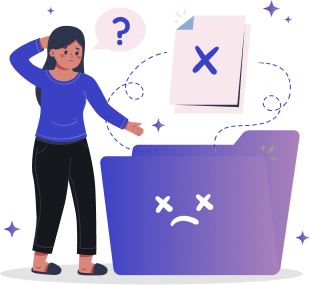
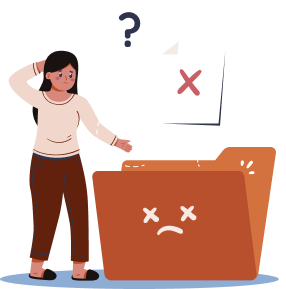
- Change some colors in app.

diff --git a/lib/features/filter/presentation/widgets/products_screen/products_screen_product_item.dart b/lib/features/filter/presentation/widgets/products_screen/products_screen_product_item.dart
@@ -36,7 +36,6 @@ class ProductsScreenProductItem extends ConsumerWidget {
       }
     });
     return GestureDetector(
-      onLongPress: onLongPress,
       onTap: () =>
           context.push(AppRoutes.productDetailsScreen, extra: item.name),
       child: ClipRRect(
@@ -111,23 +110,44 @@ class ProductsScreenProductItem extends ConsumerWidget {
                 ),
                 child: Column(
                   crossAxisAlignment: CrossAxisAlignment.start,
+                  mainAxisAlignment: MainAxisAlignment.spaceBetween,
                   spacing: 10,
                   children: [
-                    Text(
-                      item.title ?? 'iphone'.tr(),
-                      maxLines: 3,
-                      overflow: TextOverflow.ellipsis,
-                      style: AppTextStyle.rubikSemiBold16.copyWith(
-                        color: AppColors.textDart,
-                      ),
+                    Row(
+                      mainAxisAlignment: MainAxisAlignment.spaceBetween,
+                      children: [
+                        Expanded(
+                          child: Text(
+                            item.title ?? 'iphone'.tr(),
+                            // 'gggggggggggggggggggggggggggggggggggggggggggg',
+                            maxLines: 2,
+                            overflow: TextOverflow.ellipsis,
+                            style: AppTextStyle.rubikSemiBold16.copyWith(
+                              color: AppColors.textDart,
+                            ),
+                          ),
+                        ),
+                        if (onLongPress != null)
+                          GestureDetector(
+                            onTap: onLongPress,
+                            child: Icon(
+                              Icons.more_vert,
+                              color: AppColors.grayHint,
+                              size: 25,
+                            ),
+                          ),
+                      ],
                     ),
                     Text(
                       item.condition ?? 'new'.tr(),
+                      // 'gggggggggggggggggggggggggggggggggggggggggggg',
+                      maxLines: 1,
+
                       style: AppTextStyle.rubikRegular12.copyWith(
                         color: AppColors.grayHint,
                       ),
                     ),
-                    Spacer(),
+                    // Spacer(),
                     Text(
                       '${item.price ?? 44} ${item.currency ?? 'QAR'.tr()}',
                       style: AppTextStyle.rubikMedium14.copyWith(

diff --git a/lib/features/addProduct/presentation/widgets/first_step/step_category_view.dart b/lib/features/addProduct/presentation/widgets/first_step/step_category_view.dart
@@ -168,7 +168,7 @@ class _CategorySection extends StatelessWidget {
     return Column(
       crossAxisAlignment: CrossAxisAlignment.start,
       children: [
-        Divider(height: 1, color: AppColors.grayBorder),
+        Divider(height: 1, color: AppColors.lightGray),
 
         10.verticalSpace,
 
@@ -178,7 +178,7 @@ class _CategorySection extends StatelessWidget {
             Container(
               padding: const EdgeInsets.all(8),
               decoration: BoxDecoration(
-                color: AppColors.primaryOpacity,
+                color: AppColors.secondPrimary,
                 borderRadius: BorderRadius.circular(25),
               ),
               child: CachedNetworkImage(

diff --git a/lib/features/filter/presentation/screens/search_sub_categories_screen.dart b/lib/features/filter/presentation/screens/search_sub_categories_screen.dart
@@ -30,8 +30,8 @@ class _SearchSubCategoriesScreenContent extends StatelessWidget {
         Divider(height: 24, color: AppColors.dividerColor),
         if (subCategoryModel.mainAttributes?.isNotEmpty ?? false)
           SubCategoriesSection(subCategoryModel),
-        if (subCategoryModel.mainAttributes?.isNotEmpty ?? false)
-          Divider(height: 24, color: AppColors.dividerColor),
+        // if (subCategoryModel.mainAttributes?.isNotEmpty ?? false)
+        // Divider(height: 24, color: AppColors.dividerColor),
         // SearchSubCategoriesCompaniesSection(),
       ],
     );

diff --git a/lib/features/filter/presentation/widgets/searc_sub_categories_screen/sub_category_item.dart b/lib/features/filter/presentation/widgets/searc_sub_categories_screen/sub_category_item.dart
@@ -39,9 +39,9 @@ class SubCategoryItem extends ConsumerWidget {
       child: Container(
         // width: 104,
         // height: 40,
-        width: width / 4.5,
+        width: width / 4,
         // height: width / 3.5,
-        height: width / 4.5,
+        height: width / 4,
         padding: EdgeInsets.all(4),
         alignment: Alignment.center,
         decoration: BoxDecoration(

diff --git a/lib/features/home/presentation/widgets/home_screen/home_screen_sub_category_item.dart b/lib/features/home/presentation/widgets/home_screen/home_screen_sub_category_item.dart
@@ -26,9 +26,9 @@ class HomeScreenSubCategoryItem extends ConsumerWidget {
         );
       },
       child: Container(
-        width: width / 4.5,
+        width: width / 4,
         // height: width / 3.5,
-        height: width / 4.5,
+        height: width / 4,
         decoration: BoxDecoration(
           color: AppColors.white,
           borderRadius: BorderRadius.circular(20),

diff --git a/lib/features/filter/presentation/widgets/products_screen/products_screen_products_grid.dart b/lib/features/filter/presentation/widgets/products_screen/products_screen_products_grid.dart
@@ -46,7 +46,7 @@ Widget buildPostsGrid(
         crossAxisCount: 2,
         crossAxisSpacing: 16,
         mainAxisSpacing: 16,
-        childAspectRatio: 0.45,
+        childAspectRatio: 0.53,
       ),
       itemBuilder: (context, index) =>
           ProductsScreenProductItem(item: posts[index]),

diff --git a/lib/features/home/presentation/widgets/home_screen/home_screen_category_title.dart b/lib/features/home/presentation/widgets/home_screen/home_screen_category_title.dart
@@ -26,7 +26,7 @@ class HomeScreenCategoryTitle extends StatelessWidget {
           padding: EdgeInsets.all(5),
           decoration: BoxDecoration(
             shape: BoxShape.circle,
-            color: AppColors.lightRedBackground,
+            color: AppColors.secondPrimary,
           ),
           child: CachedNetworkImage(
             imageUrl: ServicesUrls.imageUrl + icon,

diff --git a/lib/features/profile/presentation/screens/profile_screen.dart b/lib/features/profile/presentation/screens/profile_screen.dart
@@ -96,7 +96,7 @@ class ProfileScreen extends ConsumerWidget {
                           crossAxisCount: 2,
                           crossAxisSpacing: 16,
                           mainAxisSpacing: 16,
-                          childAspectRatio: 0.5,
+                          childAspectRatio: 0.53,
                         ),
                         itemBuilder: (_, index) => ProductsScreenProductItem(
                           item: items[index],

diff --git a/lib/src/core/shared_widgets/app_error_widget.dart b/lib/src/core/shared_widgets/app_error_widget.dart
@@ -56,7 +56,7 @@ class AppErrorWidget extends StatelessWidget {
                 if (context.canPop()) {
                   context.pop();
                 } else {
-                  context.go(AppRoutes.homeScreen);
+                  context.go(AppRoutes.mainScreen);
                 }
               },
               isFiled: false,